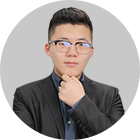
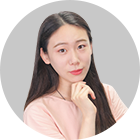
更新权威团队页面情感导师模块导师头像和对应描述

diff --git a/src/pages/page03/views/section02.js b/src/pages/page03/views/section02.js
@@ -9,24 +9,19 @@ import mentorImage05 from './images/avatar_mentor05.png';
 
 const mentorInfos = [
   {
-    mentorImage: mentorImage01,
-    mentorName: '皓霖导师',
-    des: '长期关系维护专家'
-  },
-  {
     mentorImage: mentorImage02,
-    mentorName: '孑然导师',
-    des: '首席挽回专家'
+    mentorName: '木子导师',
+    des: '国家首批挽回专家'
   },
   {
     mentorImage: mentorImage03,
-    mentorName: '谧沙导师',
-    des: '国家婚姻情感咨询师'
+    mentorName: '文琪导师',
+    des: '高级两性心理学专家'
   },
   {
     mentorImage: mentorImage04,
-    mentorName: '文心导师',
-    des: '狙击挽回实战专家'
+    mentorName: '泊乔导师',
+    des: '国家首批情感挽回专家'
   },
   {
     mentorImage: mentorImage05,
